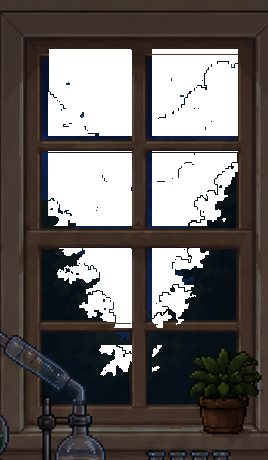
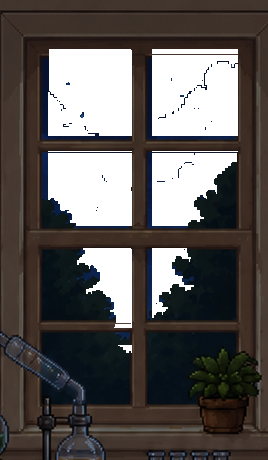
fix(lab): the trees keep their autumn leaves, and the quest chips fit
TREES. The foliage guard I added covered green, and the lab's tree is only
half green -- the rest is a warm yellow-orange canopy that kept getting cut,
so the tree came back as an outline with sky inside it. Measured: 4,200 of its
cut pixels sat at blue-minus-red below -60, a cluster nothing else in that
window shares. `coolMin: -60` on the lab keeps them. It stays per-room and NOT
a default, because the kitchen's own sky reaches -79 -- a global floor would
punch holes in it.

CHIPS. Measured rather than guessed: "FINISH A LESSON" in Press Start 2P made
the chip want 193px, against a 236px cap, so on a narrow phone the panel ran
past the edge and the labels were cut mid-word. Everything is a size down --
7px title, 5.5px reward, 24px icon, 2px edges, one space in the reward line --
which brings it to 158.5px, and the cap is now min(200px, 100vw - 20px) so a
narrow screen crops the ROOM and never the panel.

diff --git a/src/components/care/ChemistryScene.tsx b/src/components/care/ChemistryScene.tsx
@@ -162,7 +162,7 @@ function RoomMissionChips({ night }: { night: boolean }) {
   // stale +10/+15 while the quests already paid 35 each.
   const lessonDef = TASK_DEFS.find(t => t.id === 'daily_chem_lesson')!
   const streakDef = TASK_DEFS.find(t => t.id === 'daily_chem_streak')!
-  const rewardText = (t: typeof lessonDef) => `+${t.coins} COINS  +${t.xp} XP`
+  const rewardText = (t: typeof lessonDef) => `+${t.coins} COINS +${t.xp} XP`
   return (
     <div
       className="absolute z-20 pointer-events-none flex flex-col gap-2"
@@ -171,9 +171,11 @@ function RoomMissionChips({ night }: { night: boolean }) {
         // diagram (proton / neutron / electron poster) in the room art.
         top: 'calc(150px + env(safe-area-inset-top, 0px))',
         left: 10,
-        // Widened to 236 so the full title and reward line never ellipsis
-        // on a phone-width room.
-        maxWidth: 236,
+        // The chips want 159px in Press Start 2P (measured, longest line is
+        // "FINISH A LESSON" at 7px). 200 leaves headroom without eating half
+        // the room; the vw clamp means a narrow phone crops the ROOM, never
+        // the panel.
+        maxWidth: 'min(200px, calc(100vw - 20px))',
       }}
     >
       {/* Section header — toggle button. Tapping collapses both chips back
@@ -189,14 +191,14 @@ function RoomMissionChips({ night }: { night: boolean }) {
           alignSelf: 'flex-start',
           display: 'inline-flex',
           alignItems: 'center',
-          gap: 7,
-          padding: '6px 9px',
+          gap: 6,
+          padding: '5px 8px',
           background: skin.panel,
-          border: `3px solid ${skin.edge}`,
+          border: `2px solid ${skin.edge}`,
           boxShadow: `${hard(skin.ink)}, 0 4px 12px rgba(0,0,0,0.35)`,
           fontFamily: PIXEL_FONT,
-          fontSize: 7,
-          letterSpacing: 1,
+          fontSize: 6,
+          letterSpacing: 0.8,
           lineHeight: 1.4,
           color: skin.fg,
           marginBottom: 2,
@@ -207,7 +209,7 @@ function RoomMissionChips({ night }: { night: boolean }) {
           display: 'inline-flex',
           transform: expanded ? 'rotate(180deg)' : undefined,
         }}>
-          <IconChevronDown size={12} tone={skin.gold} />
+          <IconChevronDown size={10} tone={skin.gold} />
         </span>
       </button>
       <Collapsible expanded={expanded} delayMs={0}>
@@ -289,10 +291,10 @@ function MissionChip({ Icon, title, reward, done, accent, skin }: {
     <div
       style={{
         pointerEvents: 'auto',
-        display: 'flex', alignItems: 'center', gap: 9,
-        padding: '8px 11px 8px 8px',
+        display: 'flex', alignItems: 'center', gap: 7,
+        padding: '6px 8px 6px 6px',
         background: done ? accent : skin.panel,
-        border: `3px solid ${skin.edge}`,
+        border: `2px solid ${skin.edge}`,
         boxShadow: `${hard(skin.ink)}, 0 4px 12px rgba(0,0,0,0.35)`,
       }}
     >
@@ -300,20 +302,20 @@ function MissionChip({ Icon, title, reward, done, accent, skin }: {
         aria-hidden
         style={{
           flexShrink: 0,
-          width: 30, height: 30,
+          width: 24, height: 24,
           display: 'grid', placeItems: 'center',
           background: done ? skin.panel : accent,
           border: `2px solid ${skin.edge}`,
           boxShadow: hard(skin.ink, 2),
         }}
       >
-        {done ? <IconCheck size={16} tone="#4ADE80" /> : <Icon size={16} />}
+        {done ? <IconCheck size={13} tone="#4ADE80" /> : <Icon size={13} />}
       </span>
       <div style={{ minWidth: 0 }}>
         <div style={{
           fontFamily: PIXEL_FONT,
-          fontSize: 8,
-          letterSpacing: 0.6,
+          fontSize: 7,
+          letterSpacing: 0.3,
           lineHeight: 1.5,
           color: body,
           whiteSpace: 'nowrap',
@@ -324,11 +326,11 @@ function MissionChip({ Icon, title, reward, done, accent, skin }: {
         </div>
         <div style={{
           fontFamily: PIXEL_FONT,
-          fontSize: 6,
-          letterSpacing: 0.4,
+          fontSize: 5.5,
+          letterSpacing: 0.2,
           lineHeight: 1.6,
           color: sub,
-          marginTop: 4,
+          marginTop: 3,
           whiteSpace: 'nowrap',
           overflow: 'hidden',
           textOverflow: 'ellipsis',
